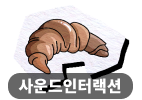
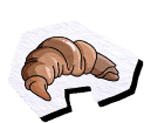
:art: change subject images & SubjectList flex

diff --git a/src/components/SubjectList/SubjectList.module.scss b/src/components/SubjectList/SubjectList.module.scss
@@ -10,13 +10,11 @@
     .subjectList {
         width: 90%;
         max-width: 340px;
-        height: 100%;
-        display: grid;
-        grid-template-columns: 1fr 1fr;
-        grid-template-rows: repeat(4, 1fr);
+        height: 80%;
+        display: flex;
+        flex-wrap: wrap;
+        justify-content: space-evenly;
         margin: auto;
-        text-align: center;
-        align-items: center;
     }
 }
 
@@ -33,11 +31,11 @@
     
         .subjectList {
             width: 100%;
-            max-width: 340px;
-            height: 100%;
-            display: grid;
-            grid-template-columns: 1fr 1fr 1fr;
-            grid-template-rows: 1fr 1fr 1fr;
+            max-width: 500px;
+            height: 90%;
+            display: flex;
+            flex-wrap: wrap;
+            justify-content: space-evenly;
             margin: auto;
         }
     }
